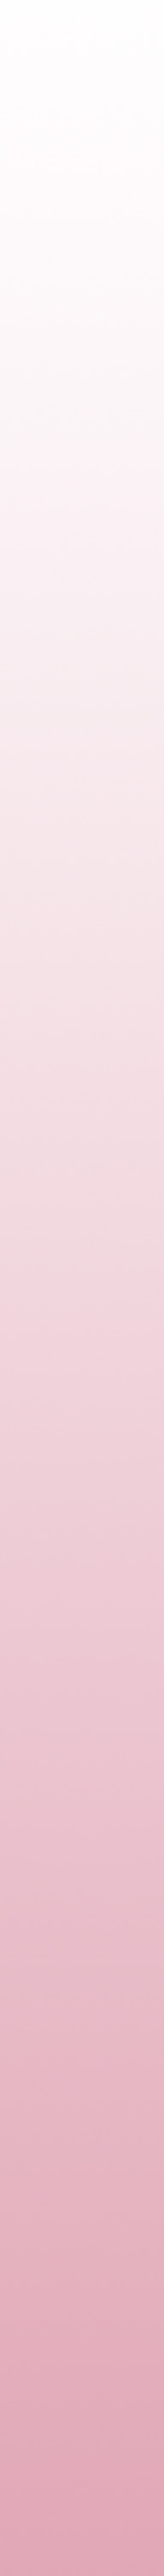
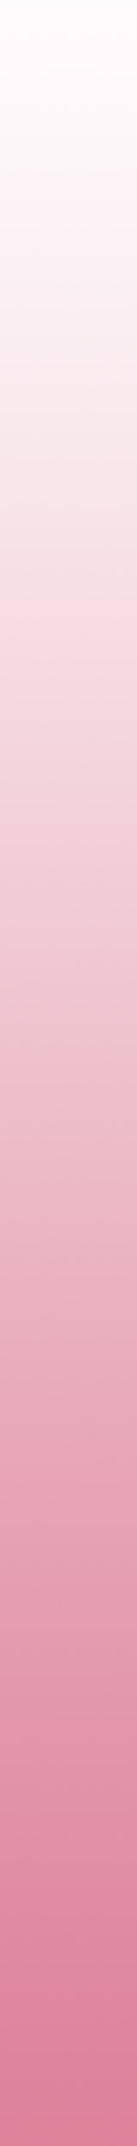
Add files via upload

diff --git a/dreamland.css b/dreamland.css
@@ -13,8 +13,8 @@ body, html {
 
 
 body {
-    background-image: url(images/japan2.jpg);
-    background-size: cover;
+    background-image: url(images/gradient1.jpg);
+    background-repeat: repeat-x;
     
 }
 
@@ -37,28 +37,31 @@ body.landing {
     nav {
      background-color: indianred;
         padding: .5rem 2%;
+        height: 100px;
     }
     
     nav ul.menu {
-        list-style-type: none;
+        vertical-align: top;
         padding: 0;
     }
     
     nav ul.menu li a {
         padding: .2rem 1rem;
         margin-bottom: .5rem;
-        background-color: lightyellow;
+        background-color: indianred;
         font-weight: 700;
         text-decoration: none;
         display: block;
-        border: solid 1px darkgreen;
-        border-radius: rem;
+        border: solid .5px white;
+        border-radius: 10rem;
         text-align: center;
+        height: 50px;
+        width: 400px
+
     }
     
     nav ul.menu li a:hover {
-        background-color: #ffff;
-        color: forestgreen;
+        background-color: orangel
     }
     
     nav ul.menu li.active a {
@@ -67,7 +70,7 @@ body.landing {
     } 
     .logo {
     width: 60px;
-    float:left;
+    float:center;
     margin-left:  20px;
     margin-top: 4px;
     
@@ -100,6 +103,7 @@ height: 80px;
 background-color: indianred;
     top: 0;
     left:0;
+    margin-bottom:20px;
     
 }
     
@@ -127,6 +131,17 @@ landing. {
 nav ul li {
     list-style-type: none;
     display: block;
+    
+}
+    
+    
+    
+      .logo {
+    width: 60px;
+    float:left;
+
+    
+
 }
 
   nav ul.menu li a {
@@ -135,8 +150,9 @@ nav ul li {
         font-weight: 700;
         text-decoration: none;
         display: block;
-        border-radius: .2rem;
+        border-radius: 7rem;
         text-align: center;
+        padding-top: 10px;
 }
 
 
@@ -185,23 +201,14 @@ nav ul li {
         color: #dfdfdf;
     } 
     
-    .logo {
-    width: 60px;
-    float:left;
-    margin-left:  20px;
-    margin-top: 4px;
-    
-
-}
+  
     .companyname {
-    float: left;
-    color: #fff;
-    font-size: 30px;
-    line-height: 80px;
-    padding: 0 6em;
+    color: green;
+    font-size: 10px;
+    line-height: 10px;
     font-family: 'Calligraffitti', cursive;
-    margin-left: -60px;
-    padding-top: -30px;
+    margin-left: -10px;
+    padding-top: -10px;
 }
 }
 
@@ -300,7 +307,7 @@ nav ul li {
 .content {
   width: 1400px;
   border: 10px black;
-  box-shadow: 20px gray;
+   box-shadow: 0 0 10px #000;
     border-radius: 10px;
   padding: 50px;
   margin: auto;
@@ -522,6 +529,7 @@ footer p {
     padding: .5rem;
     font-size: .8rem;
     font-weight: 600;
+    margin-top: 20px
 }
 
 

diff --git a/contact.html b/contact.html
@@ -48,7 +48,7 @@
         Contact Us
         </h1>
         
-        <form action="thanks.html" method="post" enctype="multipart/form-data" name="attend" class="contact">
+        <form action="thanks.html" method="post" enctype="multipart/form-data" name="thanks" class="contact">
         
         <fieldset>
             <legend> Personal Information</legend>
@@ -65,13 +65,13 @@
             
             <fieldset>
             <legend> Pick Your Destination </legend>
-                <label><input type="radio" name="type" placeholder="China"> China </label> <br>
-                <label><input type="radio" name="type" placeholder="Greece"> Greece </label> <br>
-                <label><input type="radio" name="type" placeholder="Germany"> Germany </label> <br>
-                <label><input type="radio" name="type" placeholder="Japan"> Japan </label> <br>
-                <label><input type="radio" name="type" placeholder="Africa"> Africa </label> <br>
-                <label><input type="radio" name="type" placeholder="Japan"> Japan </label> <br>
-                <label><input type="radio" name="type" placeholder="Thailand"> Thailand </label> <br>
+                <label><input type="radio" name="type"> China </label> <br>
+                <label><input type="radio" name="type"> Greece </label> <br>
+                <label><input type="radio" name="type"> Germany </label> <br>
+                <label><input type="radio" name="type"> Japan </label> <br>
+                <label><input type="radio" name="type"> Africa </label> <br>
+                <label><input type="radio" name="type"> Japan </label> <br>
+                <label><input type="radio" name="type"> Thailand </label> <br>
          
            
             </fieldset>
@@ -99,8 +99,9 @@
                 </select>
             </label> <br>
             <br>
+            </fieldset>
             
-            <form action="/html/tags/html_form_tag_action.cfm" method="post">
+       
 <div>
 <textarea name="comments" id="comments" style="font-family:sans-serif;font-size:1.2em;">
 Comments
@@ -109,10 +110,13 @@ Comments
 <input type="submit" value="Submit">
 </form>
             
-            
-            </fieldset>                               
+                 <form action="/html/tags/html_form_tag_action.cfm" method="post">
                     
+            
+            
         </form> 
+                            
+                            <form action="mailto:kaybaggerly@gmail.com"> </form>
                      </div>
 
     </main>

diff --git a/index.html b/index.html
@@ -6,7 +6,7 @@
     <link href="https://fonts.googleapis.com/css2?family=Calligraffitti&display=swap" rel="stylesheet">
 <meta charset="UTF-8">
       <title> Welcome Page </title>
-    <meta name="viewport" content="width=device-width, initial-scale=1, max-scale=1">
+ <meta content='width=device-width, initial-scale=1' name="viewport"/>
 </head>
      <body>
          <div id="wrapper">
